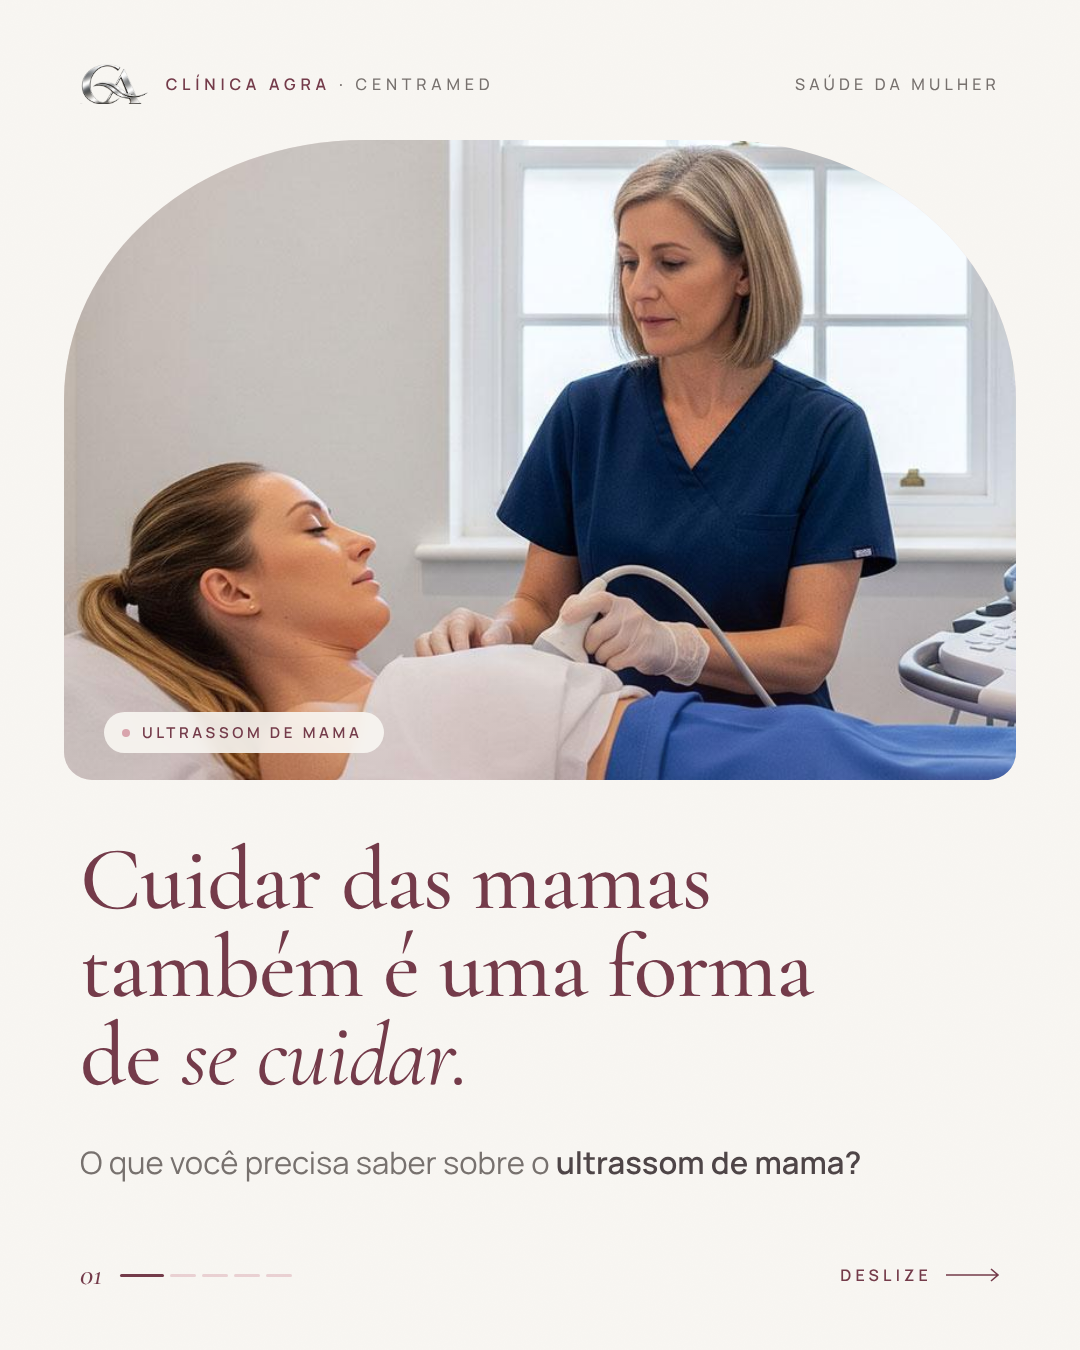
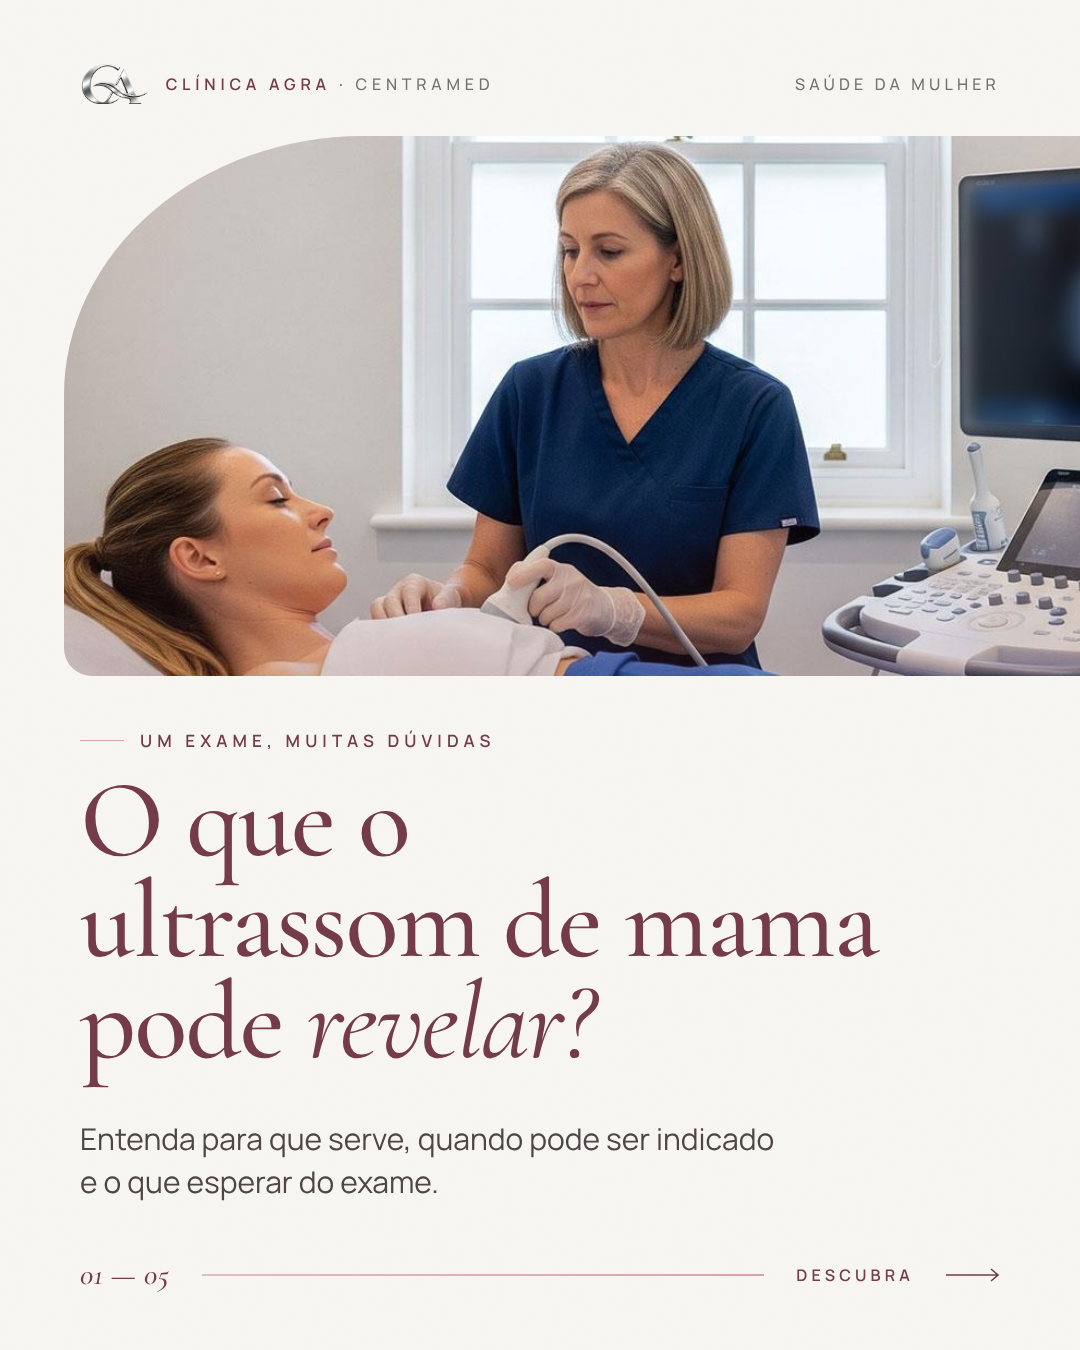
Carrossel ultrassom de mama: nova capa com foco em curiosidade
Nova copy no card 01 (chamada, título em 3 linhas, subtítulo e
indicador 01 — 05 / Descubra), foto em arco sangrando pela borda
direita e tela do monitor desfocada. Demais cards inalterados.

Claude-Session: https://claude.ai/code/session_01E7cFtXcmehRHcntY5Pe918

diff --git a/carrosseis/ultrassom-de-mama/carrossel.html b/carrosseis/ultrassom-de-mama/carrossel.html
@@ -101,15 +101,18 @@
   /* ==================================================================
      CARD 1 — CAPA
      ================================================================== */
-  .c1 .photo { left: 64px; right: 64px; top: 140px; height: 640px; border-radius: 300px 300px 28px 28px / 260px 260px 28px 28px; }
-  .c1 .photo img { width: 1400px; left: -24px; top: -24px; }
-  .c1 .photo::after { content: ""; position: absolute; inset: 0; background: linear-gradient(180deg, rgba(248,246,242,0) 62%, rgba(116,59,74,.16) 100%); }
-  .c1 .chip { left: 104px; top: 712px; z-index: 2; padding: 13px 22px 13px 18px; border-radius: 40px; background: rgba(248,246,242,.9); backdrop-filter: blur(6px);
-              display: flex; align-items: center; gap: 12px; font: 600 15px/1 var(--sans); letter-spacing: .24em; text-transform: uppercase; color: var(--wine); }
-  .c1 .chip i { width: 8px; height: 8px; border-radius: 50%; background: var(--rose); }
-  .c1 .title { left: var(--m); right: 70px; top: 836px; font-size: 90px; line-height: .98; }
-  .c1 .sub { left: var(--m); right: 160px; top: 1140px; font: 400 31px/1.42 var(--sans); color: var(--gray); }
-  .c1 .sub strong { font-weight: 600; color: var(--ink); }
+  /* foto em arco que sangra pela borda direita: puxa o olhar para o card seguinte */
+  .c1 .photo { left: 64px; right: 0; top: 136px; height: 540px; border-radius: 300px 0 0 28px / 260px 0 0 28px; }
+  .c1 .photo img { width: 1308px; left: -44px; top: -22px; }
+  .c1 .photo::after { content: ""; position: absolute; inset: 0; background: linear-gradient(180deg, rgba(248,246,242,0) 60%, rgba(116,59,74,.18) 100%); }
+  .c1 .eyebrow { left: var(--m); top: 732px; }
+  .c1 .title { left: var(--m); right: var(--m); top: 770px; font-size: 110px; line-height: .92; letter-spacing: -.018em; }
+  .c1 .sub { left: var(--m); right: var(--m); top: 1118px; font: 400 30px/1.42 var(--sans); color: var(--ink); }
+  .c1 .foot { right: 0; }
+  .c1 .count { flex: none; font: italic 500 30px/1 var(--serif); color: var(--wine); letter-spacing: .02em; }
+  .c1 .rule { flex: 1; height: 1.5px; margin: 0 32px; background: linear-gradient(90deg, color-mix(in srgb, var(--rose) 70%, transparent), var(--rose)); }
+  .c1 .swipe { flex: none; padding-right: var(--m); }
+  .c1 .swipe svg { width: 72px; }
 
   /* ==================================================================
      CARD 2 — O QUE É
@@ -205,14 +208,15 @@
     </header>
 
     <figure class="photo"><img src="img/exame-paciente.jpg" alt="Paciente deitada e tranquila durante exame de ultrassom"></figure>
-    <p class="chip"><i></i>Ultrassom de mama</p>
 
-    <h1 class="title">Cuidar das mamas<br>também é uma forma<br>de <em>se cuidar.</em></h1>
-    <p class="sub">O que você precisa saber sobre o <strong>ultrassom de mama?</strong></p>
+    <p class="eyebrow">Um exame, muitas dúvidas</p>
+    <h1 class="title">O que o<br>ultrassom de mama<br>pode <em>revelar?</em></h1>
+    <p class="sub">Entenda para que serve, quando pode ser indicado<br>e o que esperar do exame.</p>
 
     <footer class="foot">
-      <div class="pager">01<span class="pager__bars"><i class="on"></i><i></i><i></i><i></i><i></i></span></div>
-      <div class="swipe">Deslize <svg><use href="#arrow"/></svg></div>
+      <span class="count">01 — 05</span>
+      <span class="rule" aria-hidden="true"></span>
+      <div class="swipe">Descubra <svg viewBox="0 0 54 14" preserveAspectRatio="xMaxYMid meet"><use href="#arrow"/></svg></div>
     </footer>
   </section>
 

diff --git a/carrosseis/ultrassom-de-mama/README.md b/carrosseis/ultrassom-de-mama/README.md
@@ -4,7 +4,7 @@
 
 | Card | Conteúdo | Composição |
 |---|---|---|
-| 01 | Capa: “Cuidar das mamas também é uma forma de se cuidar.” | Foto em arco + título editorial |
+| 01 | Capa: “O que o ultrassom de mama pode revelar?” | Foto em arco sangrando à direita + título editorial dominante |
 | 02 | O que é o ultrassom de mama? | Foto sangrando à direita com curva orgânica |
 | 03 | Quando esse exame pode ser indicado? | Fundo vinho, tópicos numerados, monograma em marca-d’água |
 | 04 | É simples e não utiliza radiação. | Foto do exame + detalhe do transdutor com gel + frase de destaque |
@@ -33,6 +33,7 @@ Fontes: Cormorant Garamond e Manrope (licença OFL, arquivos em `fonts/`).
 
 ## Tratamento das fotos
 
+- `exame-paciente.jpg`: tela do monitor desfocada (a imagem exibida não era de mama).
 - `medica-monitor.jpg`: textos ilegíveis gerados por IA no monitor e no frasco foram desfocados.
 - `exame-acolhimento.jpg`: original de 500 px ampliado com Lanczos e nitidez leve. Para máxima qualidade, substitua por um original maior.
 
